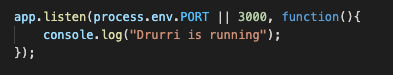
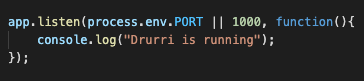
Fransvis: changed pictures for readme (port and database)

Changed region(s): [[0.0, 0.1333, 0.9973, 0.3733], [0.0907, 0.3733, 0.7555, 0.5867], [0.0, 0.6133, 0.0907, 0.8]]

diff --git a/app.js b/app.js
@@ -37,10 +37,10 @@ mongoose.connect('mongodb+srv://FransVis:207878Av@@drurri.wzwr6.mongodb.net/drur
   useNewUrlParser: true,
   useUnifiedTopology: true
 });
-mongoose.connect('mongodb://localhost:27017/drurri_app', {
-  useNewUrlParser: true,
-  useUnifiedTopology: true
-});
+// mongoose.connect('mongodb://localhost:27017/drurri_app', {
+//   useNewUrlParser: true,
+//   useUnifiedTopology: true
+// });
 mongoose.set('useCreateIndex', true);
 
 
@@ -218,3 +218,4 @@ app.use('/services', serviceRoutes);
 app.listen(process.env.PORT || 3000, function(){
     console.log("Drurri is running");
 }); 
+

diff --git a/README.md b/README.md
@@ -23,9 +23,10 @@
 * save 2.4.0
 
 # Launch
-* require all packages 
+* Require all packages 
 <img src='/public/stylesheets/imgs/packages.png'>
-* create a database (local or cloud based) and connect to it
+* Create a database (local or cloud based) and connect to it
 <img src='/public/stylesheets/imgs/database.png'>
-* setup PORT address
+* Setup PORT address
 <img src='/public/stylesheets/imgs/port.png'>
+* Run with command : node app.js
